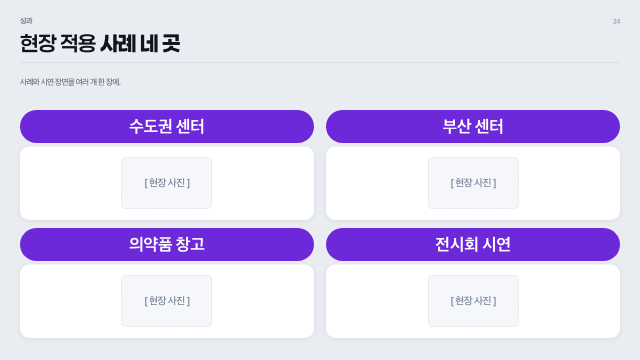
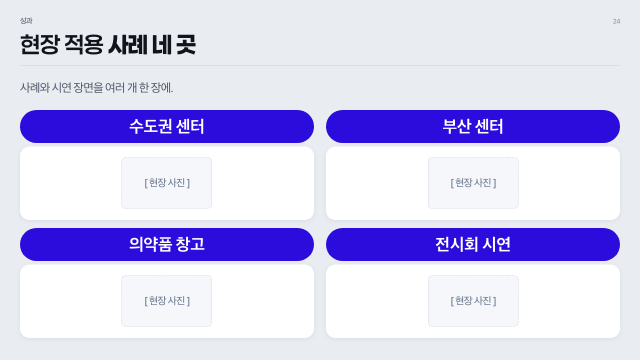
디자인 시스템 컬러·글꼴을 design-system/ 폴더로 분리, primary 스케일 적용
- design-system/colors.json: primary 800·700·600·400·300·200, 회색, 상태색
- design-system/fonts.json: 글꼴 이름(굵기별 패밀리)과 대체 글꼴
- 메인 primary 600 #2B0CDD, 보조 primary 400 #5D48FF, 진한 단계는 스케일 800·700
- 특이사항 배너: 메인 컬러를 연하게 깐 바탕·테두리
- 리드 16 → 24px, 헤드라인 42 → 46px, 제목이 두 줄이면 본문 시작을 내림

diff --git a/docs/templates/deck.html b/docs/templates/deck.html
@@ -10,17 +10,17 @@
 @font-face{font-family:'Paperlogy 8 ExtraBold';src:local('Paperlogy 8 ExtraBold'),local('Paperlogy-8ExtraBold'),url('https://cdn.jsdelivr.net/gh/Freesentation/paperlogy@main/woff2/Paperlogy-8ExtraBold.woff2') format('woff2');font-weight:400;font-style:normal;font-display:swap}
 deck-stage:not(:defined){visibility:hidden;}
 :root{
-  --primary:#6D28D9;--primary-2:#A181F7;--primary-deep:#4E1D9C;
-  --primary-soft:#F2EDFE;--primary-softer:#F9F7FF;
+  --primary:#2B0CDD;--primary-2:#5D48FF;--primary-deep:#2815B0;
+  --primary-soft:#E8E5FF;--primary-softer:#F5F4FF;
   --accent:#00A89D;--gold:#C8A24B;--gold-light:#F2D78E;
   --success:#138A4E;--warning:#C97A1F;--danger:#C9302C;
   --bg-soft:#F5F7FA;--border:#D9DEE6;--border-strong:#B9C3D2;
-  --text:#1A2438;--title:#10141C;--body:#515B75;--banner:#E6F3FF;--banner-border:#8EC6EE;--banner-label:#6D28D9;--banner-text:#515B75;--text-mid:#4A5568;--text-light:#8B95A7;
+  --text:#1A2438;--title:#10141C;--body:#515B75;--banner:#E6E2FB;--banner-border:#AA9EF1;--banner-label:#2B0CDD;--banner-text:#515B75;--text-mid:#4A5568;--text-light:#8B95A7;
   --pad:40px;--hdr:0px;--foot:0px;--safe-bottom:44px;--page:#E9ECF0;--card-shadow:0 2px 12px rgba(20,40,80,0.07);
   --font:'Pretendard','Pretendard','Malgun Gothic','맑은 고딕','Apple SD Gothic Neo','Noto Sans KR',sans-serif;
   --font-title:'Paperlogy 6 SemiBold','Pretendard','Apple SD Gothic Neo','Malgun Gothic','맑은 고딕','Noto Sans KR',sans-serif;
   --font-title-b:'Paperlogy 8 ExtraBold','Pretendard','Apple SD Gothic Neo','Malgun Gothic','맑은 고딕','Noto Sans KR',sans-serif;
-  --cover-badge:#6C43AD;
+  --cover-badge:#4533AF;
   --kmax:1.3;
 }
 /* --k: per-slide body scale from fit_slides.mjs. Header/title/lead are fixed. */
@@ -40,10 +40,10 @@ body{font-family:var(--font);-webkit-font-smoothing:antialiased;color:var(--text
 .eyebrow{font-size:15px;color:var(--text-mid);font-weight:500;display:flex;justify-content:space-between;align-items:baseline;}
 .eyebrow b{color:var(--primary);font-weight:700;}
 .eyebrow .pgno{font-size:13px;color:var(--text-light);font-weight:500;font-variant-numeric:tabular-nums;}
-.stitle{font-family:var(--font-title);font-size:42px;font-weight:400;color:var(--title);line-height:1.2;margin-top:9px;word-break:keep-all;overflow-wrap:break-word;max-width:1100px;}
+.stitle{font-family:var(--font-title);font-size:46px;font-weight:400;color:var(--title);line-height:1.2;margin-top:9px;word-break:keep-all;overflow-wrap:break-word;max-width:1100px;}
 .stitle b{font-family:var(--font-title-b);font-weight:400;color:var(--title);}
 .rule{height:1px;background:#CFD4DC;margin-top:13px;}
-.slead{font-size:16px;color:var(--text-mid);line-height:1.5;margin-top:26px;max-width:1100px;}
+.slead{font-size:24px;color:var(--text-mid);line-height:1.5;margin-top:26px;max-width:1100px;}
 .slead b{color:var(--text);font-weight:700;}
 /* body */
 .body{position:absolute;left:var(--pad);right:var(--pad);top:var(--body-top,238px);bottom:var(--safe-bottom);display:flex;flex-direction:column;gap:var(--gap);z-index:3;}
@@ -191,7 +191,7 @@ table.rt{width:100%;border-collapse:collapse;font-size:calc(var(--fs-table) * va
 .cv .cbg{background-image:url('assets/cover-bg/cube.jpg');}
 /* 제목이 놓이는 왼쪽을 살짝 눌러 글씨가 밝은 부분에 걸쳐도 읽히게 한다 */
 .cv .scrim{position:absolute;inset:0;z-index:1;background:linear-gradient(90deg,rgba(5,3,18,.42) 0%,rgba(5,3,18,.48) 42%,rgba(5,3,18,.30) 58%,rgba(5,3,18,0) 74%);}
-.closing .cbg{background:linear-gradient(135deg,#4E1D9C 0%,#6D28D9 45%,#A181F7 100%);}
+.closing .cbg{background:linear-gradient(135deg,#2815B0 0%,#2B0CDD 45%,#5D48FF 100%);}
 /* 표지 본문 — 원본 PPTX 좌표·여백 그대로 */
 .cover .clead{position:absolute;left:61.5px;top:56px;width:530.2px;height:83.6px;font-family:'Pretendard Light','Pretendard','Apple SD Gothic Neo','Malgun Gothic','맑은 고딕','Noto Sans KR',sans-serif;font-weight:400;font-size:24px;line-height:35.47px;letter-spacing:-0.8pt;color:#E7E6E6;z-index:2;word-break:keep-all;}
 .cover .ctitle{position:absolute;left:59.4px;top:117px;width:720px;height:172.1px;font-family:'Paperlogy 7 Bold','Pretendard','Apple SD Gothic Neo','Malgun Gothic','맑은 고딕','Noto Sans KR',sans-serif;font-weight:400;font-size:64px;line-height:78.13px;letter-spacing:-1pt;color:#fff;z-index:2;word-break:keep-all;}

diff --git a/docs/design/index.html b/docs/design/index.html
@@ -458,8 +458,8 @@ tr.dirty .val input{border-color:var(--acc);color:var(--acc)}
     <section class="blk"><h2>색</h2>
       <p class="note">메인 컬러 하나에서 나머지가 계산된다. 임의 hex를 쓰지 않는다. 보조 컬러가 흰 카드 위에서 대비 3 미만이면 메인 쪽으로 섞어 어둡게 만든다.</p>
       <div class="pick">
-        <label>메인 <input type="color" id="cPrimary" value="#6D28D9"><span class="hx" id="hxPrimary">#6D28D9</span></label>
-        <label>보조 <input type="color" id="cSecondary" value="#A78BFA"><span class="hx" id="hxSecondary">#A78BFA</span></label>
+        <label>메인 <input type="color" id="cPrimary" value="#2B0CDD"><span class="hx" id="hxPrimary">#2B0CDD</span></label>
+        <label>보조 <input type="color" id="cSecondary" value="#5D48FF"><span class="hx" id="hxSecondary">#5D48FF</span></label>
         <button class="gbtn" id="cClear">보조 비우기</button>
         <span class="hint" id="cNote"></span>
       </div>
@@ -549,10 +549,10 @@ function derive(primary,secondary){
   var readable=function(c){for(var t=0;t<=1.001;t+=0.1){var c2=mix(c,primary,t);if(contrast(c2)>=3)return c2}return primary};
   var sec=secondary&&/^#?[0-9a-f]{6}$/i.test(secondary)?secondary.toUpperCase():'';
   var primary2=(sec&&luminance(sec)>luminance(primary))?readable(sec):mix(primary,'#4E8DF5',0.55);
-  var banner='#E6F3FF', bannerLabel=primary;   // 배너는 연하늘 바탕 + 연하늘 테두리(장표와 같은 값)
+  var banner=mix(primary,'#FFFFFF',0.88), bannerLabel=primary;   // 배너는 메인 컬러를 연하게 깐 바탕 + 테두리(장표와 같은 값)
   return {primary:primary,primary2:primary2,primaryDeep:mix(primary,'#000000',0.28),
     softBlue:mix(primary2,'#FFFFFF',0.86),softerBlue:mix(primary2,'#FFFFFF',0.94),
-    banner:banner,bannerBorder:'#8EC6EE',bannerLabel:bannerLabel,bannerText:'#515B75',
+    banner:banner,bannerBorder:mix(primary,'#FFFFFF',0.6),bannerLabel:bannerLabel,bannerText:'#515B75',
     coverBadge:mix(mix(primary,'#000000',0.28),'#FFFFFF',0.17),dark:dark,
     usedSecondary:!!(sec&&luminance(sec)>luminance(primary))};
 }
@@ -564,9 +564,9 @@ var DENSITY={
 };
 var DEFAULTS={
   density:'dense', k:1,
-  primary:'#6D28D9', secondary:'#A78BFA',
+  primary:'#2B0CDD', secondary:'#5D48FF',
   h0:48,h0l:58.6,h0s:-1, h1:40,h1l:48,h1s:-1, h2:22,h2l:31.8,h2s:-0.2, b2:18,b2l:26.6,b2s:-0.8,
-  eyebrow:15, stitle:42, lead:16, pgno:13,
+  eyebrow:15, stitle:46, lead:24, pgno:13,
   pad:40, safeBottom:44, bodyTop:220,
   rCard:19, rBanner:14, rLabel:8, rPill:999,
   shY:2, shBlur:12, shOp:7,
@@ -854,7 +854,10 @@ function buildBodyType(){
 }
 
 /* ── swatches ── */
+/* 고정 컬러 — 원본은 skills/ppt-maker/design-system/colors.json. 그 파일을 고치면 여기도 같이 고친다. */
 var FIXED=[
+  ['primary-800','#2815B0','진한 단계 · 간지 그라데이션 시작'],['primary-700','#2A14C8','중간 진한 단계'],
+  ['primary-600','#2B0CDD','메인'],['primary-400','#5D48FF','보조'],['primary-300','#7B69FF','primary 300'],['primary-200','#9B8EFF','primary 200'],
   ['--page','#E9ECF0','장표 바탕'],['--text','#1A2438','본문 글자'],['--title','#10141C','헤드라인'],
   ['--body','#515B75','카드 안 소제목'],['--text-mid','#4A5568','아이브로우 · 리드'],['--text-light','#8B95A7','쪽 번호 · 캡션'],
   ['--bg-soft','#F5F7FA','표 헤더 · 그래프 패널'],['--border','#D9DEE6','테두리'],

diff --git a/skills/ppt-maker/app/design-system.html b/skills/ppt-maker/app/design-system.html
@@ -458,8 +458,8 @@ tr.dirty .val input{border-color:var(--acc);color:var(--acc)}
     <section class="blk"><h2>색</h2>
       <p class="note">메인 컬러 하나에서 나머지가 계산된다. 임의 hex를 쓰지 않는다. 보조 컬러가 흰 카드 위에서 대비 3 미만이면 메인 쪽으로 섞어 어둡게 만든다.</p>
       <div class="pick">
-        <label>메인 <input type="color" id="cPrimary" value="#6D28D9"><span class="hx" id="hxPrimary">#6D28D9</span></label>
-        <label>보조 <input type="color" id="cSecondary" value="#A78BFA"><span class="hx" id="hxSecondary">#A78BFA</span></label>
+        <label>메인 <input type="color" id="cPrimary" value="#2B0CDD"><span class="hx" id="hxPrimary">#2B0CDD</span></label>
+        <label>보조 <input type="color" id="cSecondary" value="#5D48FF"><span class="hx" id="hxSecondary">#5D48FF</span></label>
         <button class="gbtn" id="cClear">보조 비우기</button>
         <span class="hint" id="cNote"></span>
       </div>
@@ -549,10 +549,10 @@ function derive(primary,secondary){
   var readable=function(c){for(var t=0;t<=1.001;t+=0.1){var c2=mix(c,primary,t);if(contrast(c2)>=3)return c2}return primary};
   var sec=secondary&&/^#?[0-9a-f]{6}$/i.test(secondary)?secondary.toUpperCase():'';
   var primary2=(sec&&luminance(sec)>luminance(primary))?readable(sec):mix(primary,'#4E8DF5',0.55);
-  var banner='#E6F3FF', bannerLabel=primary;   // 배너는 연하늘 바탕 + 연하늘 테두리(장표와 같은 값)
+  var banner=mix(primary,'#FFFFFF',0.88), bannerLabel=primary;   // 배너는 메인 컬러를 연하게 깐 바탕 + 테두리(장표와 같은 값)
   return {primary:primary,primary2:primary2,primaryDeep:mix(primary,'#000000',0.28),
     softBlue:mix(primary2,'#FFFFFF',0.86),softerBlue:mix(primary2,'#FFFFFF',0.94),
-    banner:banner,bannerBorder:'#8EC6EE',bannerLabel:bannerLabel,bannerText:'#515B75',
+    banner:banner,bannerBorder:mix(primary,'#FFFFFF',0.6),bannerLabel:bannerLabel,bannerText:'#515B75',
     coverBadge:mix(mix(primary,'#000000',0.28),'#FFFFFF',0.17),dark:dark,
     usedSecondary:!!(sec&&luminance(sec)>luminance(primary))};
 }
@@ -564,9 +564,9 @@ var DENSITY={
 };
 var DEFAULTS={
   density:'dense', k:1,
-  primary:'#6D28D9', secondary:'#A78BFA',
+  primary:'#2B0CDD', secondary:'#5D48FF',
   h0:48,h0l:58.6,h0s:-1, h1:40,h1l:48,h1s:-1, h2:22,h2l:31.8,h2s:-0.2, b2:18,b2l:26.6,b2s:-0.8,
-  eyebrow:15, stitle:42, lead:16, pgno:13,
+  eyebrow:15, stitle:46, lead:24, pgno:13,
   pad:40, safeBottom:44, bodyTop:220,
   rCard:19, rBanner:14, rLabel:8, rPill:999,
   shY:2, shBlur:12, shOp:7,
@@ -854,7 +854,10 @@ function buildBodyType(){
 }
 
 /* ── swatches ── */
+/* 고정 컬러 — 원본은 skills/ppt-maker/design-system/colors.json. 그 파일을 고치면 여기도 같이 고친다. */
 var FIXED=[
+  ['primary-800','#2815B0','진한 단계 · 간지 그라데이션 시작'],['primary-700','#2A14C8','중간 진한 단계'],
+  ['primary-600','#2B0CDD','메인'],['primary-400','#5D48FF','보조'],['primary-300','#7B69FF','primary 300'],['primary-200','#9B8EFF','primary 200'],
   ['--page','#E9ECF0','장표 바탕'],['--text','#1A2438','본문 글자'],['--title','#10141C','헤드라인'],
   ['--body','#515B75','카드 안 소제목'],['--text-mid','#4A5568','아이브로우 · 리드'],['--text-light','#8B95A7','쪽 번호 · 캡션'],
   ['--bg-soft','#F5F7FA','표 헤더 · 그래프 패널'],['--border','#D9DEE6','테두리'],

diff --git a/skills/ppt-maker/references/design-system.md b/skills/ppt-maker/references/design-system.md
@@ -10,8 +10,9 @@
 
 `scripts/build_html.mjs`(HTML)와 `scripts/build_pptx.mjs`(PPTX)가 구현한다. 예전 디자인은 `*_classic.mjs`(초기)와 스크래치 백업(연차보고서 헤더 바 스타일)에만 남아 있다.
 
+- **컬러·글꼴 원본**(2026-10-09): 컬러는 `design-system/colors.json`(primary 800·700·600·400·300·200, 회색, 상태색), 글꼴은 `design-system/fonts.json`. 크기·여백·모서리는 `design-tokens.json`. 메인 = primary 600 `#2B0CDD`, 보조 = primary 400 `#5D48FF`. 메인이 스케일의 600 과 같으면 진한 단계(간지 그라데이션 등)는 스케일의 800·700 을 그대로 쓴다.
 - **팔레트**: 배경 연회색 `--page` #E9ECF0, 카드 흰색 + 그림자 `0 2px 12px rgba(20,40,80,.07)`, `--primary` 포인트 컬러(#2F0CC5 보라, 카드 상단 띠·강조), `--primary-2` 파랑(#1E5BB8, 보조 수치 문장·그래프 선), 연파랑 틴트(`--primary-softer`, 강조 박스·TO-BE 카드), 본문 #1A2438 / 보조 #4A5568. 이모지·그라디언트 텍스트·다중 그림자 금지. Pretendard, 자간 -0.015em~-0.03em(제목).
-- **본문 장표 골격**(1280×720, **좌우 여백 40px** — 사용자 원본 PPTX 기준): 아이브로우 15px(y=30, **그 장표가 속한 목차(섹션) 이름 하나만**, 오른쪽 끝 페이지 번호) → 헤드라인 **31.5pt(42px)** 검정 계열 `--title` #10141C(y=61, `**강조**` 는 같은 색 800 굵기) → 1px 구분선(y=116, 여백 안쪽 전체 너비) → lead 12pt 회색(y=143, 줄간격 150%) → 본문(카드, 리드 1줄이면 y=220 부터) → 맨 아래 배너 → 출처·각주(있을 때만). 헤더 바 없음. 표지·간지·마무리는 그라디언트 배경.
+- **본문 장표 골격**(1280×720, **좌우 여백 40px** — 사용자 원본 PPTX 기준): 아이브로우 15px(y=30, **그 장표가 속한 목차(섹션) 이름 하나만**, 오른쪽 끝 페이지 번호) → 헤드라인 **34.5pt(46px)** 검정 계열 `--title` #10141C(y=61, `**강조**` 는 같은 색 800 굵기) → 1px 구분선(y=116, 여백 안쪽 전체 너비) → lead 18pt(24px) 회색(y=143, 줄간격 150%) → 본문(카드, 리드 1줄이면 y=220 부터) → 맨 아래 배너 → 출처·각주(있을 때만). 헤더 바 없음. 표지·간지·마무리는 그라디언트 배경.
 - **글자 크기·간격(원본 PPTX 와 동일하게)**: 본문 불릿 17pt·진한 색(`--text`), 카드 안 소제목 16pt 굵게·연한 회색(`--body`), 알약 제목 18pt 굵게 흰색, 배너 라벨 15pt·본문 14pt. **자간은 전부 −0.8pt**(`letter-spacing:-.8pt` / `charSpacing:-0.8`). 불릿 줄높이 1.25, 항목 사이 간격은 0.4~0.9em 에서 자동.
 - **제목 규칙**(2026-09-14): 헤드라인은 **문장이 아니라 명사형으로 끝낸다** — "…세 기능으로 구성", "…24주 일정". "~한다/~합니다/~이다" 금지. 강조는 색이 아니라 굵기로만 준다.
 - **번호 표기**: 목차·간지는 로마숫자 대신 **1·2·3 숫자**(목차 번호 36px 800). `meta.numbering` 은 쓰지 않는다.
@@ -22,7 +23,7 @@
 - **그래프(chart)**(2026-09-30, [shadcn/ui Charts](https://ui.shadcn.com/charts) 를 따름): 회색 패널 없이 카드 위에 바로. 왼쪽 제목·오른쪽 "단위 : …". 가로 격자선만(연한 테두리색), 축선·눈금선 없음, X 라벨만. 막대는 위 모서리만 둥글게(한 시리즈 5px, 여러 시리즈 3px), 선은 부드러운 곡선 + 선 색으로 채운 점, 값 라벨은 위. 범례는 아래 가운데(작은 둥근 네모). 색은 브랜드 팔레트 순서(primary-2 → primary → teal → gold). PPTX 는 같은 규칙이되 막대 모서리 둥글리기만 없음. 같은 종류 그래프는 형식 통일.
 - **간트(gantt)**(2026-10-01): 왼쪽 항목 이름 열(24%, 중간 굵기), 위 기간 라벨(회색) + 밑줄, 칸마다 세로 격자선(연한 테두리색), 행마다 가로 막대(행 높이의 40%, 포인트 컬러, 모서리 3px). `second` 파랑·`accent` 청록·`muted` 회색. 가로 구분선·행 배경은 없음. 한 장에 행 3~8개, 칸 4~12개.
 - **표**(2026-10-04, Figma SAFE AI 디자인 시스템 Data Table 을 따름): 시작·끝은 **2px 검정 선**(`--title`), 안쪽 행 구분은 1px 연회색 선(`--border`), 세로선 없음. **타이틀 영역(머리글 행)** 은 연회색 바탕(`--bg-soft`)·**굵게(bold)·회색 글자(`--text-mid`)**. **본문 칸은 보통 굵기(regular)·검정(`--text`)**. **세로 타이틀이 있는 표(`rowHeader: true`)** 는 첫 열도 타이틀 영역 — 연회색 바탕·굵게·회색 글자, 오른쪽 1px 선. 첫 칸이 합계·총계·평균인 행만 연회색 바탕·굵게. 숫자 칸이 절반 넘는 열은 오른쪽 정렬(tabular-nums). 강조 열만 머리글 포인트 컬러 글자(밑줄은 다른 열과 같은 1px 선), 칸은 글자색만 포인트 컬러(바탕 칠하지 않음, 굵기 그대로). **카드 안 작은 표(라벨·값 두 칸, `rows`)** 는 표가 아니라 값 목록처럼: 위·아래 검정 선 없음, 라벨 회색(`--text-mid`), 값 오른쪽 정렬·굵게, 행 사이 1px 선. **크기는 내용에 맞춘다**: `widths` 가 없으면 열 너비를 칸 글자 양에 맞춰 나누고(긴 글 열은 넓게, 숫자 열은 좁게, 열마다 최소 8%), 머리글도 칸이 좁으면 줄바꿈한다. 세로는 본문 배율(`--k`)을 0.75까지 줄이고, 그래도 넘치면 표 글자만 0.75배(`--kt`, 약 10pt)까지 더 줄인다. 그래도 한 장에 안 들어가는 표는 빌드할 때 행을 고르게 나눠 여러 장으로 편다(머리글 반복, 제목 뒤 "(계속)", 표 위 블록은 첫 장·아래 블록은 마지막 장).
-- **배너(callout)**(2026-10-08 밝게 반전): 아주 연한 하늘색 둥근 박스(`--banner` #E6F3FF) + 연하늘 테두리 1.5px(`--banner-border` #8EC6EE)로 연회색 장표 바탕과 구분한다. **라벨("특이사항"/"참고"/"핵심 요약")은 박스 안 왼쪽**에 포인트 컬러(`--banner-label`) 15pt 굵게, 본문 불릿은 오른쪽에 회색(`--banner-text` #515B75) 14pt, 본문 안 굵은 글씨는 포인트 컬러. 밖으로 걸치는 흰 칩은 쓰지 않는다. 배너는 **낮게** 쓴다: 안쪽 여백 `.75em 1.6em`(small 기준), 라벨–본문 간격 1.6em, 줄 사이 ≤0.35em.
+- **배너(callout)**(2026-10-08 밝게 반전): 메인 컬러를 아주 연하게 깐 둥근 박스(`--banner` = 메인 12% · 보라면 연보라) + 메인 컬러를 연하게 한 테두리 1.5px(`--banner-border` = 메인 40%)로 연회색 장표 바탕과 구분한다. **라벨("특이사항"/"참고"/"핵심 요약")은 박스 안 왼쪽**에 포인트 컬러(`--banner-label`) 15pt 굵게, 본문 불릿은 오른쪽에 회색(`--banner-text` #515B75) 14pt, 본문 안 굵은 글씨는 포인트 컬러. 밖으로 걸치는 흰 칩은 쓰지 않는다. 배너는 **낮게** 쓴다: 안쪽 여백 `.75em 1.6em`(small 기준), 라벨–본문 간격 1.6em, 줄 사이 ≤0.35em.
 - **비교(compare)**: 라벨 칩(AS-IS 회색 / TO-BE 네이비)이 달린 두 카드, 오른쪽 연파랑, 가운데 › 화살표. **로드맵**: 선 + 네이비 번호 원 + 흰 단계 카드(마지막 `darkLast` 반전). **이미지**: 흰 카드 안, 없는 이미지는 점선 자리표시자. **이미지 상자는 기본 16:9**(`ratio` 로 `4:3`·`1:1`·`9:16`·`3:4`·`original`). 칸의 너비·높이 중 작은 쪽에 맞춰 비율을 지키고 원본은 가장자리를 잘라 채운다(cover). `original` 만 원본 비율 그대로(contain).
 - **표지/마무리**: `meta.coverBg` 로 고른 배경 3종 중 하나(soft·grid·band). 표지는 설명줄 → 제목 → 왼쪽 아래 로고 → 오른쪽 아래 상자 네 덩어리만 쓴다. 자세한 좌표는 아래 '표지·목차 글자 규격'.
 - **목차**: 연회색 배경(`--page`). 왼쪽 위에 `목차`(h1), 오른쪽에 **번호(1·2·3) + 섹션명(h2)** 을 2열로 적는다 — 쪽수·설명·로고는 넣지 않는다. 부록이 있으면 마지막 항목을 `+ 부록` 으로(글씨는 Paperlogy 4 Regular). 맨 아래 문서 제목 + 페이지 번호.
@@ -44,7 +45,7 @@
 | body2 | Pretendard Light | 18pt | 고정 26.6pt | −0.8pt | 표지 설명줄 |
 
 본문 안쪽 글자는 읽는 방식(dense·airy)에 상관없이 같은 값을 쓴다.
-본문 18px, 작은 글 16px, 카드 제목 26px, 큰 수치 34px, 표 16px, 칸 사이 12px 이다.
+본문 18px, 작은 글 16px, 카드 제목 26px, 큰 수치 34px, 표 24px, 칸 사이 12px 이다.
 장표마다 넘치지 않게 `fit_slides` 가 배율을 따로 매기므로, 두 방식의 차이는 배율 상한에만 남는다.
 
 Paperlogy·Pretendard 는 굵기마다 패밀리 이름이 따로 있다(`Paperlogy 7 Bold`, `Pretendard Light`).

diff --git a/skills/ppt-maker/references/outline-schema.md b/skills/ppt-maker/references/outline-schema.md
@@ -53,7 +53,7 @@
 }
 ```
 
-장표 상단 구조(본문·부록, 미니멀 스타일): **아이브로우**(작은 회색 글씨로 목차(섹션) 이름 하나만, 오른쪽 끝 페이지 번호) → **헤드라인** `title` 30px → 가는 구분선 → **`lead`**(16px 회색, 1~2줄: 집계 기간·전제·근거 요약) → 본문(연회색 배경 위 흰 카드들) → 맨 아래 `callout` 배너. 헤더 바·푸터는 없다. `title` 은 "무엇" 이 아니라 **"그래서 결론이 무엇인가"** 를 담되 **문장이 아니라 명사형으로 끝낸다**("…세 기능으로 구성"). 핵심 구절만 `**…**` 로 감싼다(한 제목에 강조 1곳, 색은 바뀌지 않고 굵기만).
+장표 상단 구조(본문·부록, 미니멀 스타일): **아이브로우**(작은 회색 글씨로 목차(섹션) 이름 하나만, 오른쪽 끝 페이지 번호) → **헤드라인** `title` 46px → 가는 구분선 → **`lead`**(24px 회색, 1~2줄: 집계 기간·전제·근거 요약) → 본문(연회색 배경 위 흰 카드들) → 맨 아래 `callout` 배너. 헤더 바·푸터는 없다. `title` 은 "무엇" 이 아니라 **"그래서 결론이 무엇인가"** 를 담되 **문장이 아니라 명사형으로 끝낸다**("…세 기능으로 구성"). 핵심 구절만 `**…**` 로 감싼다(한 제목에 강조 1곳, 색은 바뀌지 않고 굵기만).
 
 ## 블록 타입
 

diff --git a/CLAUDE.md b/CLAUDE.md
@@ -4,6 +4,7 @@
 
 - 소스는 항상 `outline.json`. `deck.html`/`deck.pptx`는 재생성 산출물이므로 직접 고치지 않는다.
 - `assets/deck-stage.js`, `deck-editor.js`는 safeai-deck-template 레퍼런스와 동일하게 유지(수정 금지).
+- 디자인 값: 컬러 `skills/ppt-maker/design-system/colors.json`, 글꼴 `design-system/fonts.json`, 크기·여백 `design-tokens.json`. 코드에 색·글꼴 이름을 직접 쓰지 않는다.
 - 빌드 순서: build_html → fit_slides → check_overflow → export_pdf → build_pptx → verify_pptx.
 - 완료 선언 전: 오버플로 0, 썸네일 직접 확인, PPTX out-of-bounds 0, 번호 정합성.
 - 원문에 없는 수치·로고·회사 정보를 만들지 않는다.
